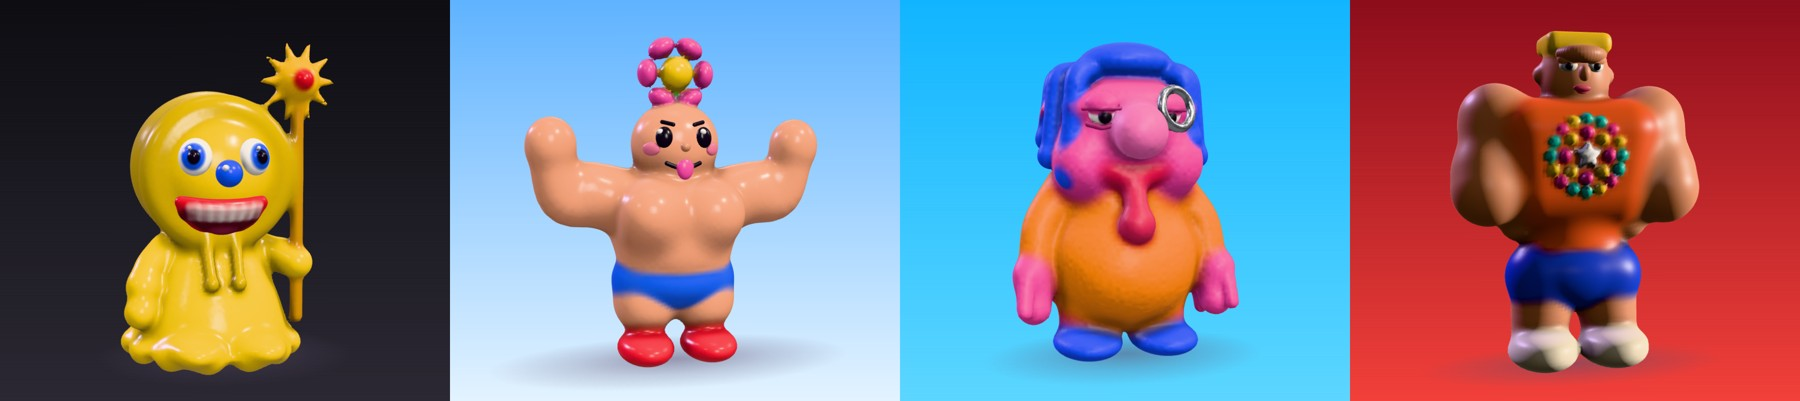
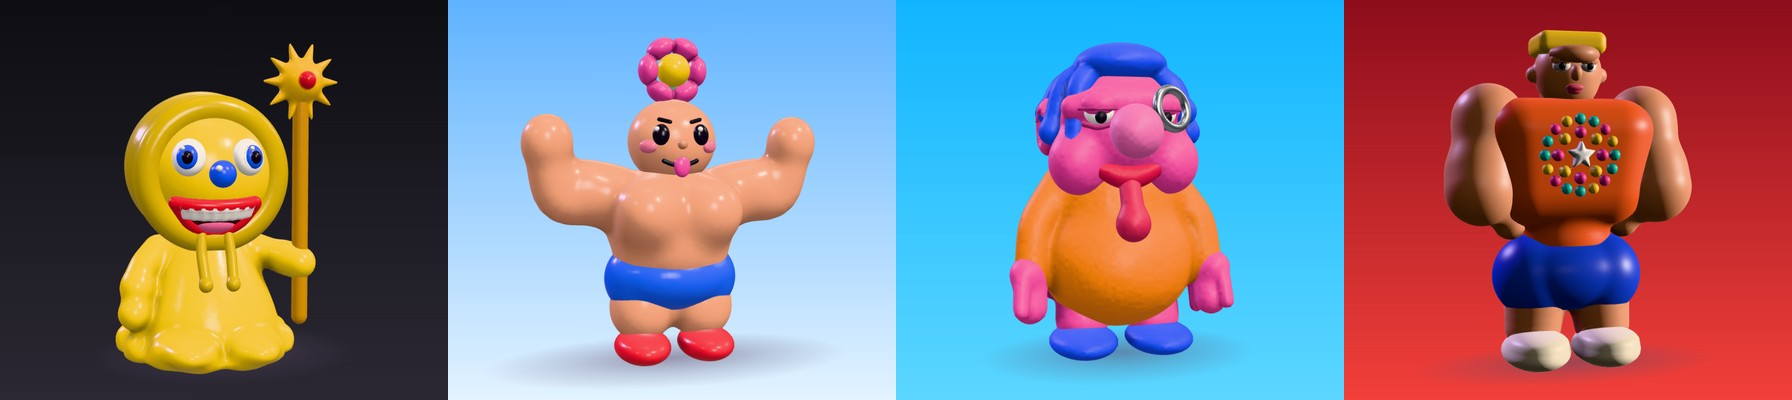
Say each character is one layer per colored part, and show the new pictures
The studio recipes now put hair, head, eyes, clothes and props on layers
of their own; the README and the four-looks picture follow.

Claude-Session: https://claude.ai/code/session_01Jus8q2BmkzgwPdVQXQdNYG

diff --git a/README.md b/README.md
@@ -74,7 +74,7 @@ What the ops can do, in short: one `texture` op lays hundreds of marks (scales, 
 
 ![Four original characters, one in each look: a grinning hooded mascot, a balloon strongman, a drooping goo figure and a tiny-headed bruiser](pictures/four-looks.jpg)
 
-A look is a way of working, a set of choices about shapes, proportions, color, material and light, taken from reading glossy VR-sculpted toy scenes. It is not a character: the point is to make a new one in it, never a copy of someone else's. `sculpt_looks` lists the four; each says what to build, what to avoid, a stage to shoot it on and a few ideas for characters of your own. `{ "do": "recipe", "name": "grin" }` (or `balloon`, `goo`, `bruiser`) builds an original character in that look to start from, with a face on its own finer layer. `{ "do": "stage", "style": "goo" }` sets the backdrop, light and camera. `sculpt_style_check` reads the colors on the skin and says whether the look's rules hold (one dominant hue, the number of color families, enough saturation), with one fix for each failure. It reads color, not likeness; whether the character is charming is the agent's judgment of the pictures.
+A look is a way of working, a set of choices about shapes, proportions, color, material and light, taken from reading glossy VR-sculpted toy scenes. It is not a character: the point is to make a new one in it, never a copy of someone else's. `sculpt_looks` lists the four; each says what to build, what to avoid, a stage to shoot it on and a few ideas for characters of your own. `{ "do": "recipe", "name": "grin" }` (or `balloon`, `goo`, `bruiser`) builds an original character in that look to start from, with every colored part (hair, head, eyes, clothes, props) on a layer of its own. `{ "do": "stage", "style": "goo" }` sets the backdrop, light and camera. `sculpt_style_check` reads the colors on the skin and says whether the look's rules hold (one dominant hue, the number of color families, enough saturation), with one fix for each failure. It reads color, not likeness; whether the character is charming is the agent's judgment of the pictures.
 
 ## Recipes, the print check and the notebook
 
